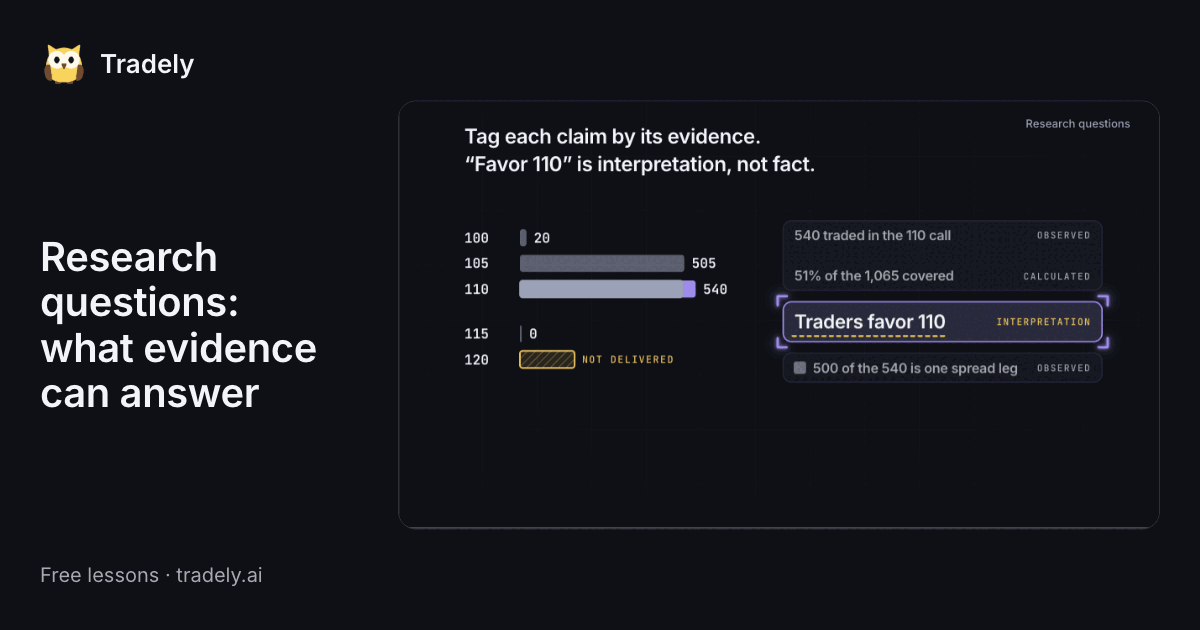
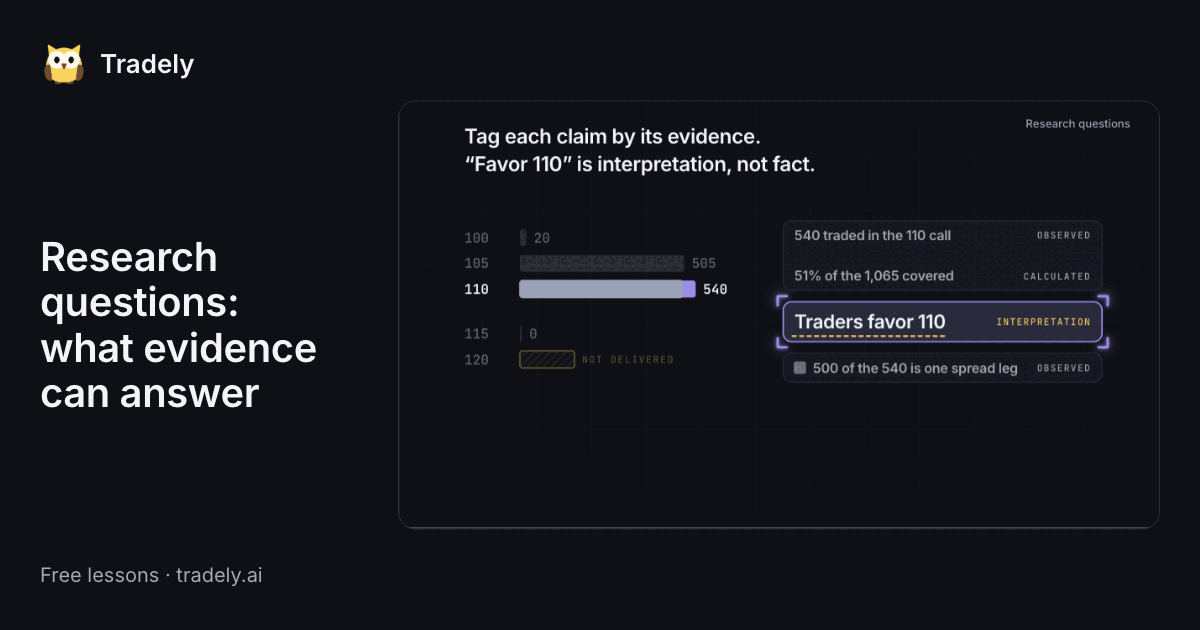
fix(learning): audited-boundary dims the other bars at the hero and enlarges phone labels
While the interpretation is locked, the 100, 105, 115 and 120 rows dim to 0.35 and are back before the 120 row's "unknown" enters. On the phone the strike labels, volumes and claim text are body size; an evidence tag is raised only where it still clears its claim. A stacked phone layout was tried and did not hold in the frame. The share card shows the dimmed bars.

From the re-score of 2026-11-15: each change answers a finding that two or three of three juries shared. No existing step of the timeline moved unless said above.

diff --git a/apps/web/src/features/learning/lessons/audited-boundary-film.tsx b/apps/web/src/features/learning/lessons/audited-boundary-film.tsx
@@ -310,12 +310,28 @@ function Scene({
 	);
 	const text = L.chartSize;
 	const claimSize = (i: number) => (i === STORY_CARD ? L.storySize : text);
+	const claimTextSize = (i: number) =>
+		narrow && i !== STORY_CARD ? T.body : claimSize(i);
 	const claimText = (i: number) =>
 		t(
 			narrow || (i === STORY_CARD && locale === "en")
 				? claims[i].short
 				: claims[i].text,
 		);
+	const claimTagSize = (i: number) => {
+		if (!narrow || i === UNKNOWN_CARD) return T.small * 0.95;
+		const textX = L.claimX + 12 + (i === SPREAD_CARD ? 20 : 0);
+		const textWidthAtSize = textWidth(
+			claimText(i),
+			claimTextSize(i) * (locale === "zh" ? 0.95 : 0.86),
+		);
+		const tagRight = L.claimX + L.claimW - 12;
+		const tagWidth =
+			textWidth(t(copy[claims[i].evidence]).toUpperCase(), T.body) * 1.2;
+		return tagRight - tagWidth - (textX + textWidthAtSize) >= 10
+			? T.body
+			: T.small * 0.95;
+	};
 	const id = useId().replace(/:/g, "");
 	const leaderRow = SERIES.indexOf(LEADER);
 	const answerSize = L.answerSize;
@@ -473,7 +489,7 @@ function Scene({
 							x={margin}
 							y={L.barRowY(i) + L.barH / 2 + text * 0.36}
 							className="wt-film-num"
-							style={{ fontSize: text }}
+							style={{ fontSize: narrow ? T.body : text }}
 						>
 							{row.strike}
 						</text>
@@ -517,7 +533,7 @@ function Scene({
 									x={L.barX + Math.max(2, (row.volume / MAX) * L.barMax) + 8}
 									y={L.barRowY(i) + L.barH / 2 + text * 0.36}
 									className="wt-film-num"
-									style={{ fontSize: text }}
+									style={{ fontSize: narrow ? T.body : text }}
 								>
 									{count(row.volume)}
 								</text>
@@ -584,7 +600,7 @@ function Scene({
 							x={L.claimX + 12 + (i === SPREAD_CARD ? 20 : 0)}
 							y={L.claimY(i) + L.claimH(i) / 2 + claimSize(i) * 0.36}
 							className={`wt-film-type ${claim.evidence === "unknown" ? "wt-film-dim" : ""}`}
-							style={{ fontSize: claimSize(i) }}
+							style={{ fontSize: claimTextSize(i) }}
 						>
 							{claimText(i)}
 						</text>
@@ -620,7 +636,7 @@ function Scene({
 						textAnchor={i === UNKNOWN_CARD ? "start" : "end"}
 						className={`wt-film-tag ${tone[claim.evidence]}`}
 						style={{
-							fontSize: T.small * 0.95,
+							fontSize: claimTagSize(i),
 							fill:
 								claim.evidence === "observed" || claim.evidence === "calculated"
 									? "var(--tone-ink)"
@@ -899,6 +915,9 @@ function build(context: FilmContext) {
 	);
 	const fieldRows = fields.map((_, i) => one(`field-${i}`));
 	const strikeRows = SERIES.map((_, i) => one(`strike-${i}`));
+	const nonHeroStrikeRows = strikeRows.filter(
+		(_, i) => i !== SERIES.indexOf(LEADER),
+	);
 	const strikeLabels = SERIES.map((_, i) => one(`strike-label-${i}`));
 	const strikeData = SERIES.map((_, i) => one(`strike-data-${i}`));
 	const claimRows = claims.map((_, i) => one(`claim-${i}`));
@@ -1093,6 +1112,8 @@ function build(context: FilmContext) {
 		{ opacity: 0.65, duration: 0.45 },
 		27.95,
 	);
+	tl.to(nonHeroStrikeRows, { opacity: 0.35, duration: 0.45 }, 27.95);
+	tl.to(nonHeroStrikeRows, { opacity: 1, duration: 0.3 }, 30.05);
 	d.lock(lockClaim, 27.95, { around: claimRows[2], pad: L.narrow ? 4 : 6 });
 	tl.addLabel("hero-lock", 27.95);
 	show(heads[2], 27.95);
